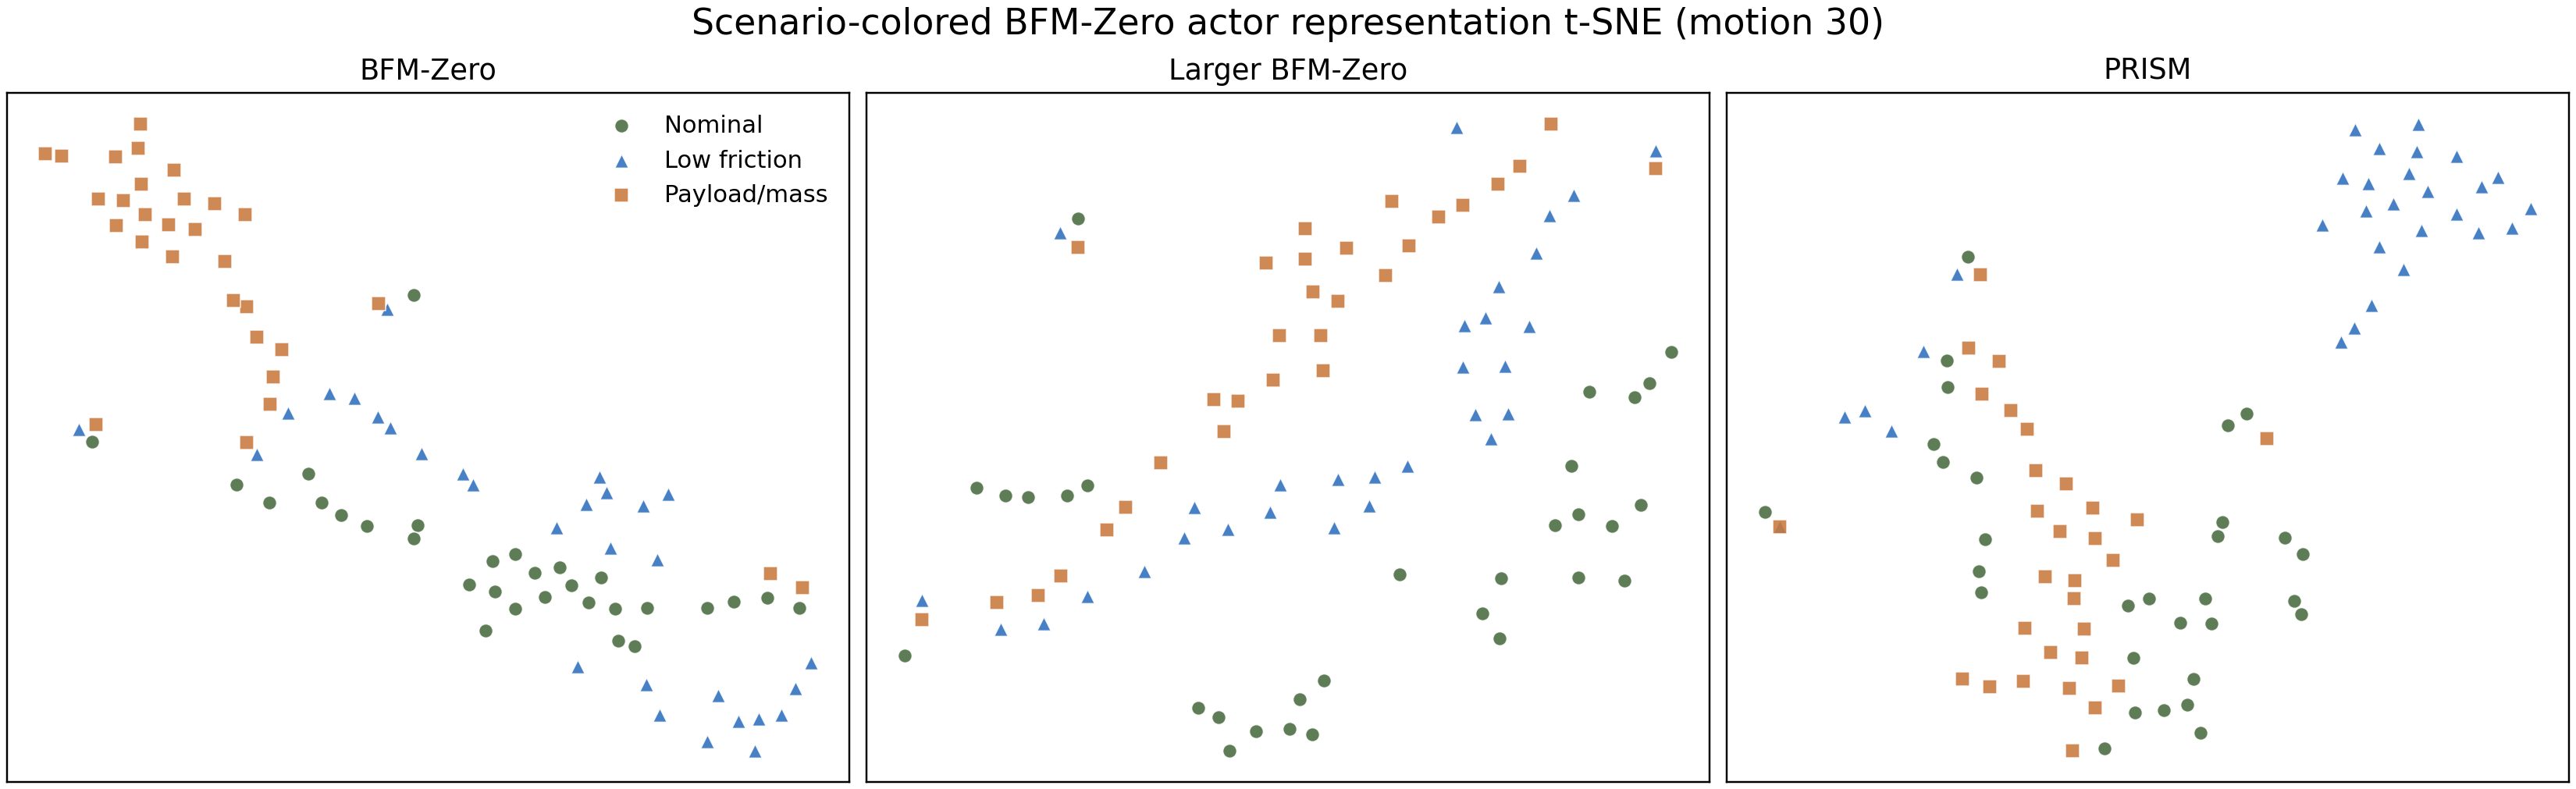
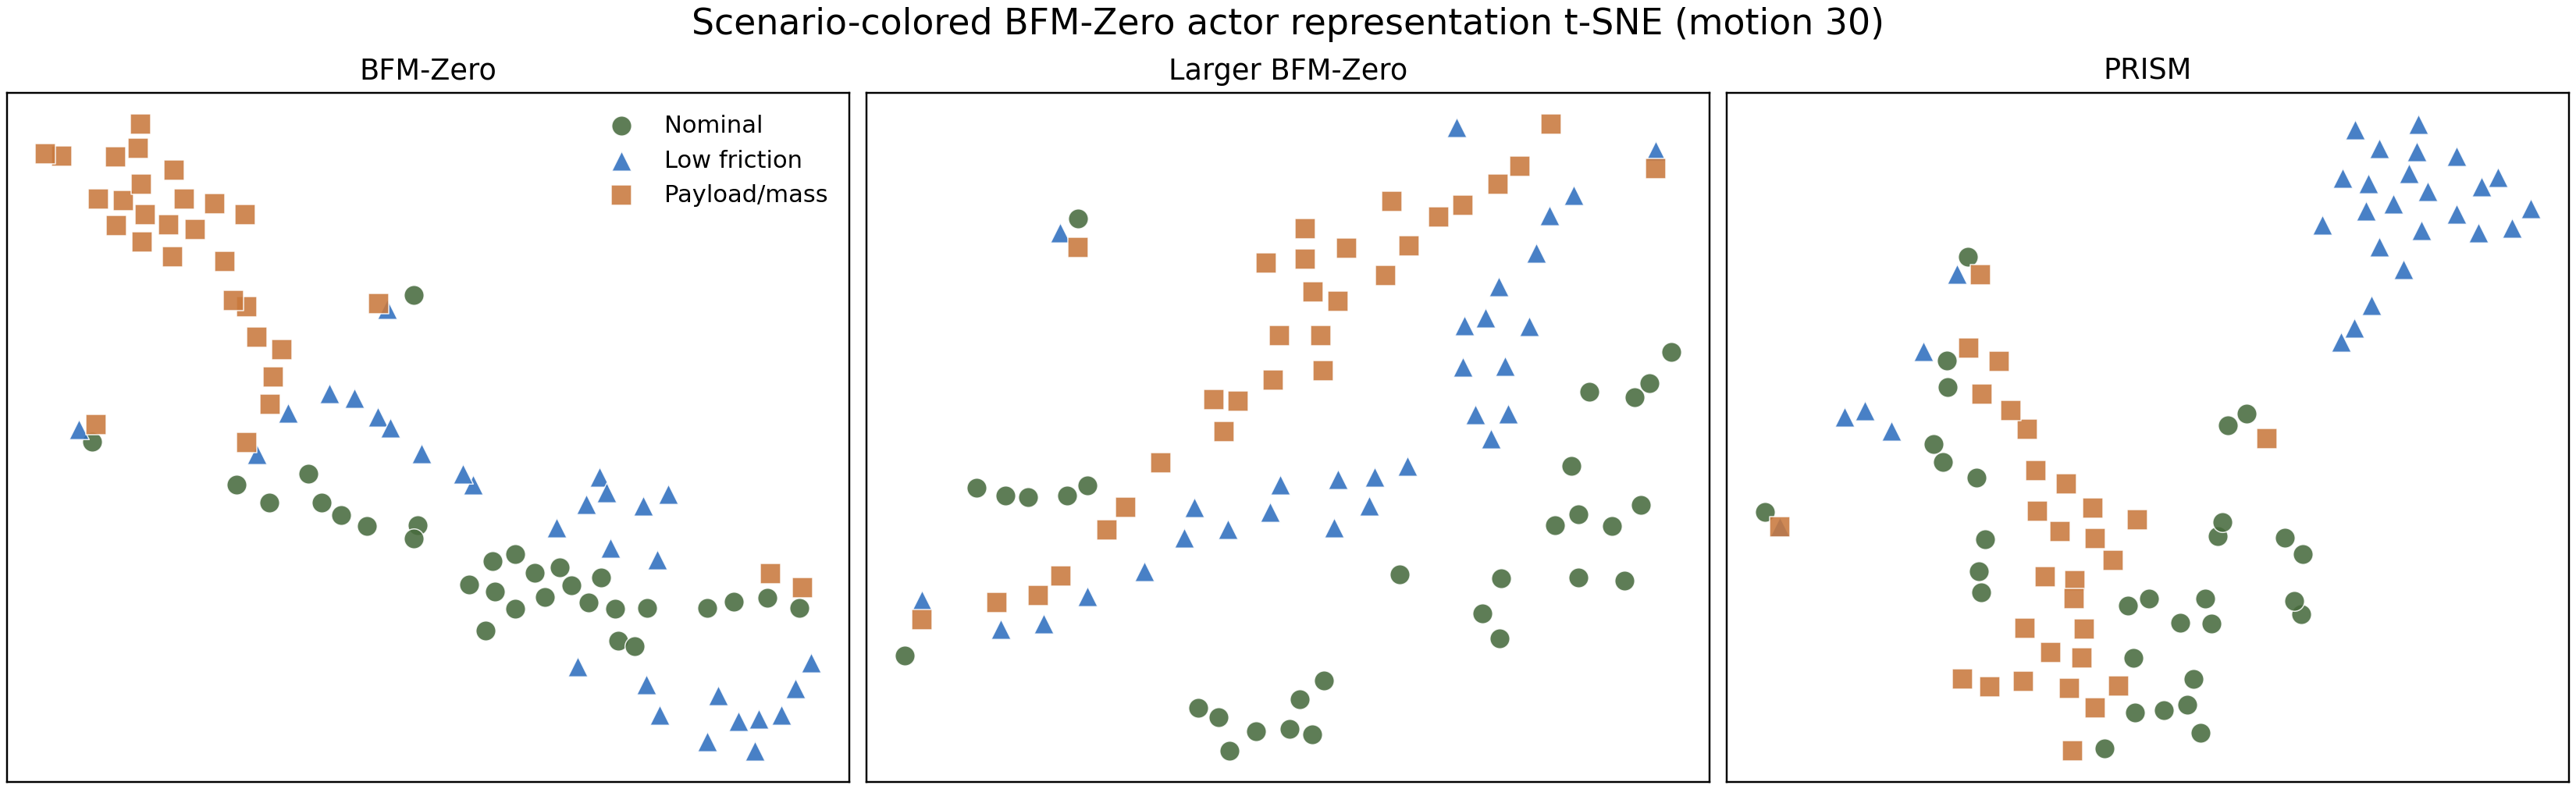
Tighten PRISM page takeaways

diff --git a/prism/index.html b/prism/index.html
@@ -3,7 +3,7 @@
 <head>
   <meta charset="utf-8">
   <meta name="viewport" content="width=device-width, initial-scale=1">
-  <title>Polynomial Representations for Interaction-Structured Motor Control</title>
+  <title>PRISM: Polynomial Representations for Interaction-Structured Motor Control</title>
   <meta name="description" content="PRISM project page for polynomial representations in interaction-structured motor control, with BFM-Zero locomotion and SmolVLA LIBERO manipulation results.">
   <style>
     :root {
@@ -643,20 +643,17 @@
         PRISM
       </a>
       <div class="links">
-        <a href="#abstract">Abstract</a>
         <a href="#method">Method</a>
-        <a href="#results">Results</a>
         <a href="#bfm">BFM-Zero</a>
+        <a href="#libero">LIBERO</a>
         <a href="#representations">Representations</a>
-        <a href="#smolvla">SmolVLA</a>
-        <a href="#videos">Videos</a>
         <a href="#bibtex">BibTeX</a>
       </div>
     </nav>
 
     <header class="hero fade-in">
-      <div class="eyebrow">PRISM: polynomial representations for proprioceptive robot control</div>
-      <h1><span>Polynomial Representations</span> for Interaction-Structured Motor Control</h1>
+      <div class="eyebrow">polynomial representations for proprioceptive robot control</div>
+      <h1><span>PRISM:</span> Polynomial Representations for Interaction-Structured Motor Control</h1>
       <p class="subtitle">
         PRISM learns compact polynomial representations over proprioception, helping modern locomotion and vision-language-action policies model interaction-structured motor behavior.
       </p>
@@ -665,19 +662,20 @@
         <a class="button" href="assets/prism/prism-paper.pdf?v=20260706-prism-success">Paper PDF</a>
         <a class="button secondary disabled" href="#" aria-disabled="true">Code coming soon</a>
         <a class="button secondary disabled" href="#" aria-disabled="true">arXiv coming soon</a>
-        <a class="button secondary" href="#videos">Watch Results</a>
+        <a class="button secondary" href="#bfm">BFM Results</a>
+        <a class="button secondary" href="#libero">LIBERO Results</a>
       </div>
 
       <div class="tldr">
         <div>
           <strong>TL;DR</strong>
           <p>
-            PRISM adds a small learnable polynomial representation module to strong robot-policy backbones, improving BFM-Zero tracking and SmolVLA LIBERO success over both the original models and larger-conditioner baselines.
+            PRISM adds a compact polynomial proprioceptive conditioner that improves stronger locomotion and manipulation backbones without simply scaling parameters.
           </p>
         </div>
         <div class="formula">
-          interaction-structured motor control
-          <small>Joint position, velocity, contact, and payload signals interact multiplicatively; PRISM exposes those interactions before the policy backbone has to infer them from scratch.</small>
+          state interactions before the backbone
+          <small>PRISM exposes joint, velocity, contact, and load interactions before an MLP or attention-heavy policy consumes proprioception.</small>
         </div>
       </div>
     </header>
@@ -685,16 +683,15 @@
     <section id="method" class="fade-in">
       <div class="section-head">
         <div>
-          <h2>Interaction-Structured Motor Control</h2>
+          <h2>PRISM exposes state interactions before the backbone</h2>
           <p class="section-kicker">
-            Takeaway: PRISM is a small proprioceptive conditioning module, not a replacement for the policy backbone.
+            A small learnable polynomial conditioner for proprioception.
           </p>
         </div>
         <span class="pill">state interactions first</span>
       </div>
       <p class="takeaway">
-        <strong>Core message.</strong>
-        MLPs and attention layers are expressive, but they still receive proprioception through an input representation. PRISM makes low-order physical interactions easier to access by learning polynomial feature mixtures over proprioception before the downstream MLP, action expert, or attention-heavy policy consumes them.
+        PRISM does not replace the policy. It gives the MLP, action expert, or attention-heavy backbone a proprioceptive representation where physical interactions are easier to use.
       </p>
       <div class="method-grid">
         <article class="flow-card">
@@ -730,87 +727,17 @@
       </div>
     </section>
 
-    <section id="videos" class="fade-in">
-      <div class="section-head">
-        <div>
-          <h2>Video Highlights</h2>
-          <p class="section-kicker">
-            Takeaway: side-by-side rollouts show that the same compact PRISM module helps both humanoid tracking and LIBERO manipulation.
-          </p>
-        </div>
-        <span class="pill">BFM comparisons + LIBERO comparisons</span>
-      </div>
-      <p class="takeaway">
-        <strong>Why these videos.</strong>
-        BFM-Zero tests whether PRISM helps proprioceptive motor control under different poses and dynamics shifts. SmolVLA tests whether the same idea still helps an attention-heavy VLA policy whose action expert receives proprioceptive conditioning.
-      </p>
-
-      <div class="video-wall">
-        <article class="video-card">
-          <video class="wide-video" controls autoplay muted loop playsinline preload="metadata" src="assets/prism/bfm-pose-m25-nominal.mp4?v=20260707-pose-diversity"></video>
-          <div class="video-caption">
-            <strong>BFM-Zero pose tracking</strong>
-            <span>GT, BFM-Zero, Larger BFM-Zero, and PRISM on a different reference pose sequence.</span>
-          </div>
-        </article>
-
-        <article class="video-card">
-          <video class="wide-video" controls autoplay muted loop playsinline preload="metadata" src="assets/prism/bfm-low-friction.mp4?v=20260707-pose-diversity"></video>
-          <div class="video-caption">
-            <strong>Low-friction perturbation</strong>
-            <span>Reduced contact friction; this is also the condition that separates most clearly in the representation plot.</span>
-          </div>
-        </article>
-
-        <article class="video-card">
-          <video class="wide-video" controls autoplay muted loop playsinline preload="metadata" src="assets/prism/bfm-pose-m25-payload.mp4?v=20260707-pose-diversity"></video>
-          <div class="video-caption">
-            <strong>Payload / mass perturbation</strong>
-            <span>Same comparison under body-mass perturbation, using the second BFM reference motion.</span>
-          </div>
-        </article>
-
-        <article class="video-card">
-          <video class="comparison-video" controls muted loop playsinline preload="metadata" src="assets/prism/libero-comparisons/long-task1-ep5-comparison.mp4?v=20260706-libero-compare"></video>
-          <div class="video-caption">
-            <strong>LIBERO Long-horizon comparison</strong>
-            <span>Same 80K eval50 episode: SmolVLA and Larger fail, while PRISM succeeds on a task where PRISM reaches 66% vs. 42% / 20% task success.</span>
-          </div>
-        </article>
-
-        <article class="video-card">
-          <video class="comparison-video" controls muted loop playsinline preload="metadata" src="assets/prism/libero-comparisons/goal-task6-ep5-comparison.mp4?v=20260706-libero-compare"></video>
-          <div class="video-caption">
-            <strong>LIBERO Goal comparison</strong>
-            <span>Same 80K eval50 episode: PRISM succeeds on a goal-conditioned task with 84% task success vs. 42% / 64% for SmolVLA / Larger.</span>
-          </div>
-        </article>
-
-        <article class="video-card">
-          <video class="comparison-video" controls muted loop playsinline preload="metadata" src="assets/prism/libero-comparisons/long-task6-ep9-comparison.mp4?v=20260706-libero-compare"></video>
-          <div class="video-caption">
-            <strong>LIBERO Long-horizon cup comparison</strong>
-            <span>Same 80K eval50 episode: SmolVLA and Larger fail, while PRISM completes the cup manipulation.</span>
-          </div>
-        </article>
-      </div>
-      <p class="note">
-        BFM videos use aligned 9.6M checkpoints and show GT | BFM-Zero | Larger BFM-Zero | PRISM. LIBERO videos are same-episode comparisons selected from the 80K eval50 logs, with aggregate metrics reported below.
-      </p>
-    </section>
-
     <section id="abstract">
       <div class="section-head">
         <div>
-          <h2>Abstract</h2>
+          <h2>Proprioception is the bottleneck we target</h2>
           <p class="section-kicker">
-            Takeaway: the target is the proprioceptive representation that feeds modern robot policy backbones.
+            Strong backbones still depend on state conditioning.
           </p>
         </div>
       </div>
       <p class="takeaway">
-        <strong>Why proprioception.</strong>
-        Vision-language policies and locomotion foundation models already have strong MLP or attention blocks. PRISM asks whether the state conditioner itself should expose physical interactions before those blocks do the rest of the work.
+        PRISM changes the state representation, not the visual backbone or the final policy head.
       </p>
       <div class="abstract">
         <p>
@@ -828,16 +755,15 @@
     <section id="results">
       <div class="section-head">
         <div>
-          <h2>Stronger-Backbone Results</h2>
+          <h2>PRISM beats larger-capacity controls on both backbones</h2>
           <p class="section-kicker">
-            Takeaway: PRISM improves matched-checkpoint baselines and also beats larger-capacity controls.
+            Same checkpoints, same evaluation, smaller than the larger-conditioner baselines.
           </p>
         </div>
         <span class="pill">capacity control included</span>
       </div>
       <p class="takeaway">
-        <strong>Why these baselines.</strong>
-        BFM-Zero is a strong promptable locomotion backbone; SmolVLA is a compact VLA model with an action expert. The larger-conditioner rows check whether the gain is merely from adding parameters rather than from polynomial proprioceptive structure.
+        BFM-Zero tests whole-body proprioceptive control. SmolVLA tests the same idea inside an attention-heavy VLA policy.
       </p>
 
       <div class="split">
@@ -896,16 +822,15 @@
     <section id="bfm">
       <div class="section-head">
         <div>
-          <h2>BFM-Zero Locomotion</h2>
+          <h2>BFM-Zero: PRISM reduces tracking EMD across dynamics shifts</h2>
           <p class="section-kicker">
-            Takeaway: polynomial proprioceptive conditioning helps a strong locomotion backbone under both nominal and perturbed dynamics.
+            A stronger locomotion baseline, not a toy controller.
           </p>
         </div>
         <span class="pill">9.6M aligned checkpoint</span>
       </div>
       <p class="takeaway">
-        <strong>Why BFM-Zero.</strong>
-        BFM-Zero is already designed for promptable whole-body humanoid behavior, so improvement here is a harder test than adding PRISM to a small bespoke controller. PRISM is compared with both the original model and a much larger BFM-Zero conditioner.
+        PRISM improves the original BFM-Zero and a much larger BFM-Zero conditioner under the same evaluation.
       </p>
 
       <div class="table-wrap">
@@ -956,25 +881,70 @@
       <p class="note">
         Lower EMD indicates closer trajectory-level motion matching. The gain is modest but paired across the same motion set, and it holds against the larger-capacity control.
       </p>
+
+      <p class="video-subhead">BFM-Zero pose and robustness examples</p>
+      <div class="video-wall">
+        <article class="video-card">
+          <video class="wide-video" controls autoplay muted loop playsinline preload="metadata" src="assets/prism/bfm-pose-m25-nominal.mp4?v=20260708-bfm-more"></video>
+          <div class="video-caption">
+            <strong>Motion 25: nominal</strong>
+            <span>GT | BFM-Zero | Larger | PRISM.</span>
+          </div>
+        </article>
+        <article class="video-card">
+          <video class="wide-video" controls autoplay muted loop playsinline preload="metadata" src="assets/prism/bfm-pose-m25-low-friction.mp4?v=20260708-bfm-more"></video>
+          <div class="video-caption">
+            <strong>Motion 25: low friction</strong>
+            <span>Same pose sequence with reduced contact friction.</span>
+          </div>
+        </article>
+        <article class="video-card">
+          <video class="wide-video" controls autoplay muted loop playsinline preload="metadata" src="assets/prism/bfm-pose-m25-payload.mp4?v=20260708-bfm-more"></video>
+          <div class="video-caption">
+            <strong>Motion 25: payload</strong>
+            <span>Same pose sequence under body-mass perturbation.</span>
+          </div>
+        </article>
+        <article class="video-card">
+          <video class="wide-video" controls autoplay muted loop playsinline preload="metadata" src="assets/prism/bfm-nominal.mp4?v=20260708-bfm-more"></video>
+          <div class="video-caption">
+            <strong>Motion 30: nominal</strong>
+            <span>A second reference motion for pose diversity.</span>
+          </div>
+        </article>
+        <article class="video-card">
+          <video class="wide-video" controls autoplay muted loop playsinline preload="metadata" src="assets/prism/bfm-low-friction.mp4?v=20260708-bfm-more"></video>
+          <div class="video-caption">
+            <strong>Motion 30: low friction</strong>
+            <span>The shift that separates most clearly in representation space.</span>
+          </div>
+        </article>
+        <article class="video-card">
+          <video class="wide-video" controls autoplay muted loop playsinline preload="metadata" src="assets/prism/bfm-payload.mp4?v=20260708-bfm-more"></video>
+          <div class="video-caption">
+            <strong>Motion 30: payload</strong>
+            <span>Second motion under mass perturbation.</span>
+          </div>
+        </article>
+      </div>
     </section>
 
     <section id="representations">
       <div class="section-head">
         <div>
-          <h2>Representation Takeaway</h2>
+          <h2>PRISM separates the low-friction dynamics shift</h2>
           <p class="section-kicker">
-            Takeaway: PRISM makes the low-friction dynamics shift visibly separable in actor representations.
+            Scenario-colored t-SNE with larger, shaped markers.
           </p>
         </div>
         <span class="pill">scenario-colored frames</span>
       </div>
       <p class="takeaway">
-        <strong>What to look for.</strong>
-        Green circles are nominal rollouts, blue triangles are low-friction rollouts, and orange squares are payload/mass rollouts. In the PRISM panel, low-friction points form the clearest separate cluster, matching the hypothesis that polynomial proprioceptive features help encode contact-sensitive dynamics.
+        Green circles are nominal, blue triangles are low friction, and orange squares are payload. The PRISM panel separates low friction most clearly.
       </p>
 
-      <a href="assets/prism/bfm-method-scenario-tsne.html?v=20260707-scenario-markers" target="_blank" rel="noopener">
-        <img class="representation-preview" src="assets/prism/bfm-method-scenario-tsne.png?v=20260707-scenario-markers" alt="Method-wise t-SNE plots of BFM-Zero, Larger BFM-Zero, and PRISM actor representations colored and shaped by robustness scenario.">
+      <a href="assets/prism/bfm-method-scenario-tsne.html?v=20260708-big-markers" target="_blank" rel="noopener">
+        <img class="representation-preview" src="assets/prism/bfm-method-scenario-tsne.png?v=20260708-big-markers" alt="Method-wise t-SNE plots of BFM-Zero, Larger BFM-Zero, and PRISM actor representations colored and shaped by robustness scenario.">
       </a>
 
       <p class="note">
@@ -982,19 +952,18 @@
       </p>
     </section>
 
-    <section id="smolvla">
+    <section id="libero">
       <div class="section-head">
         <div>
-          <h2>SmolVLA LIBERO Manipulation</h2>
+          <h2>LIBERO: PRISM improves SmolVLA without scaling the conditioner</h2>
           <p class="section-kicker">
-            Takeaway: PRISM helps the proprioceptive conditioner that feeds the SmolVLA action expert.
+            A stronger VLA baseline with the visual-language backbone left unchanged.
           </p>
         </div>
         <span class="pill">80K official eval50</span>
       </div>
       <p class="takeaway">
-        <strong>Why SmolVLA.</strong>
-        SmolVLA already has a strong vision-language backbone and attention-heavy token processing. PRISM does not modify that backbone; it improves the state-conditioning path so the action expert receives a more interaction-aware proprioceptive signal.
+        PRISM only changes proprioceptive conditioning; SmolVLA's visual-language backbone and action expert remain the comparison target.
       </p>
 
       <div class="table-wrap">
@@ -1045,20 +1014,44 @@
       <p class="note">
         PRISM adds 1.879M parameters over SmolVLA (+0.42% total) while using 4.321M fewer parameters than the larger-conditioner baseline.
       </p>
+
+      <p class="video-subhead">LIBERO same-episode comparisons</p>
+      <div class="video-wall">
+        <article class="video-card">
+          <video class="comparison-video" controls muted loop playsinline preload="metadata" src="assets/prism/libero-comparisons/long-task1-ep5-comparison.mp4?v=20260708-libero-grouped"></video>
+          <div class="video-caption">
+            <strong>Long-horizon task</strong>
+            <span>SmolVLA and Larger fail; PRISM succeeds.</span>
+          </div>
+        </article>
+        <article class="video-card">
+          <video class="comparison-video" controls muted loop playsinline preload="metadata" src="assets/prism/libero-comparisons/goal-task6-ep5-comparison.mp4?v=20260708-libero-grouped"></video>
+          <div class="video-caption">
+            <strong>Goal task</strong>
+            <span>PRISM completes the same eval50 episode.</span>
+          </div>
+        </article>
+        <article class="video-card">
+          <video class="comparison-video" controls muted loop playsinline preload="metadata" src="assets/prism/libero-comparisons/long-task6-ep9-comparison.mp4?v=20260708-libero-grouped"></video>
+          <div class="video-caption">
+            <strong>Long-horizon cup task</strong>
+            <span>PRISM finishes the cup manipulation.</span>
+          </div>
+        </article>
+      </div>
     </section>
 
     <section>
       <div class="section-head">
         <div>
-          <h2>Learned Polynomial Conditioning</h2>
+          <h2>PRISM stays learnable, not hand-coded</h2>
           <p class="section-kicker">
-            Takeaway: PRISM keeps the implementation learnable while biasing the conditioner toward useful physical interactions.
+            Polynomial structure is an inductive bias, not a frozen feature map.
           </p>
         </div>
       </div>
       <p class="takeaway">
-        <strong>Design choice.</strong>
-        We do not hard-code a fixed state-plus-square representation at inference. Instead, the conditioner is initialized with polynomial structure and then learns how much each dimension should contribute linearly, quadratically, or through mixed features.
+        The conditioner learns which dimensions should act linearly, quadratically, or through mixed features.
       </p>
 
       <div class="split">
@@ -1087,8 +1080,8 @@
           <p class="section-kicker">Placeholder citation for the project page.</p>
         </div>
       </div>
-      <pre><code>@article{anonymous2026prism,
-  title   = {Polynomial Representations for Interaction-Structured Motor Control},
+<pre><code>@article{anonymous2026prism,
+  title   = {PRISM: Polynomial Representations for Interaction-Structured Motor Control},
   author  = {Anonymous Authors},
   journal = {},
   year    = {2026}

diff --git a/prism/assets/prism/bfm-method-scenario-tsne.html b/prism/assets/prism/bfm-method-scenario-tsne.html
@@ -198,14 +198,14 @@
       const color = colors[point.scenario] || "#333333";
       let el;
       if (marker === "triangle") {
-        const size = 6.4;
+        const size = 9.2;
         el = document.createElementNS("http://www.w3.org/2000/svg", "polygon");
         el.setAttribute(
           "points",
           `${point.x},${point.y - size} ${point.x - size},${point.y + size} ${point.x + size},${point.y + size}`
         );
       } else if (marker === "square") {
-        const size = 10.8;
+        const size = 15.2;
         el = document.createElementNS("http://www.w3.org/2000/svg", "rect");
         el.setAttribute("x", point.x - size / 2);
         el.setAttribute("y", point.y - size / 2);
@@ -216,7 +216,7 @@
         el = document.createElementNS("http://www.w3.org/2000/svg", "circle");
         el.setAttribute("cx", point.x);
         el.setAttribute("cy", point.y);
-        el.setAttribute("r", 5.6);
+        el.setAttribute("r", 8.0);
       }
       el.setAttribute("class", "point");
       el.setAttribute("fill", color);